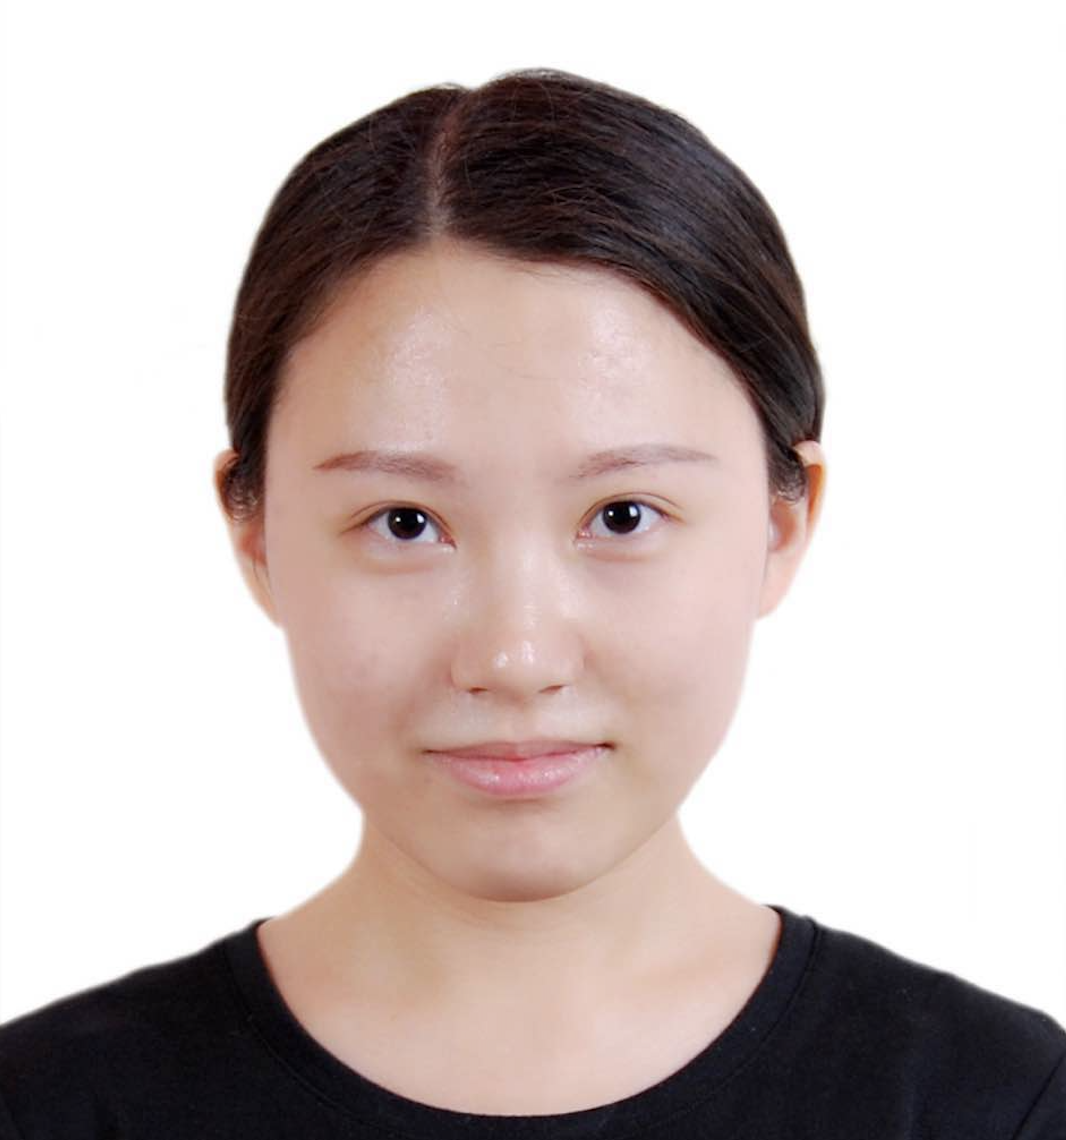
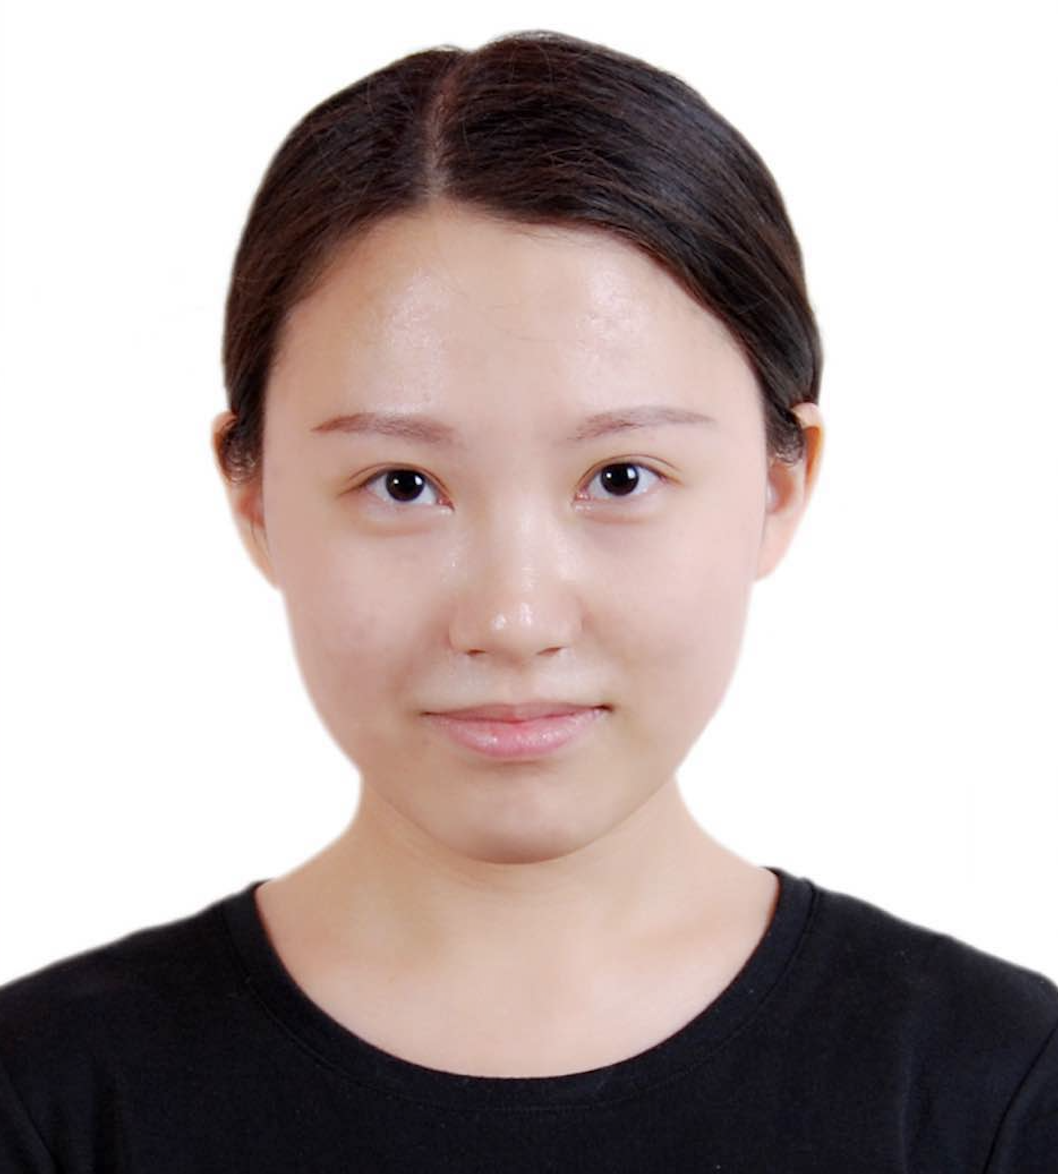
update photo

Changed region(s): [[0.0, 0.0, 1.0, 0.9825], [0.3431, 0.7675, 0.3743, 0.7982]]

diff --git a/index.html b/index.html
@@ -496,7 +496,7 @@ header, .context-menu, .megamenu-content, footer{
 <div  id='write'  class = 'is-mac'><div class="info">
   <div style="float:left; clear: right;">
     <p align="left">
-      <img src="photo3.png" width="160" height="180" onerror="this.style.display = 'none';">
+      <img src="photo3.png" width="145" height="160" onerror="this.style.display = 'none';">
       <a href="https://github.com/harperchen"><img src="github.svg" width="35" height="35" style="position:relative; top:60px" onerror="this.style.display = 'none';"></a>
       <a href="https://www.linkedin.com/in/wei-chen-9a7659190/"><img src="linkedin.svg" width="35" height="35" style="position:relative; top:60px" onerror="this.style.display = 'none';"></a>
     </p>
